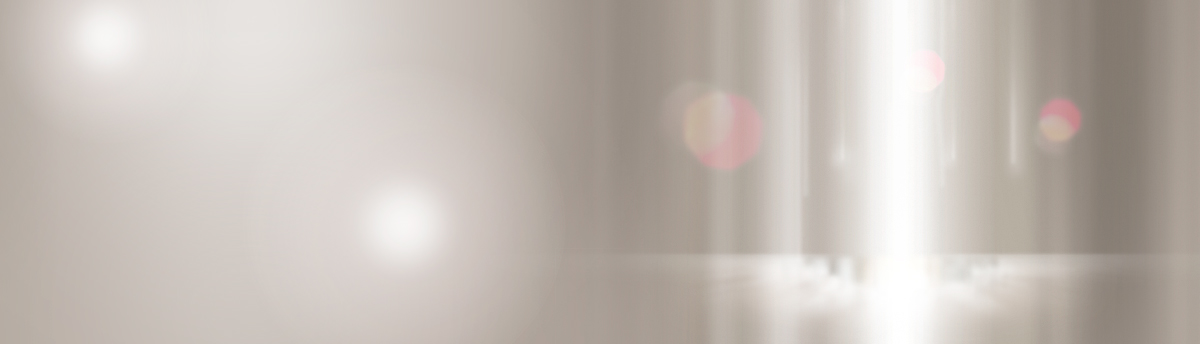
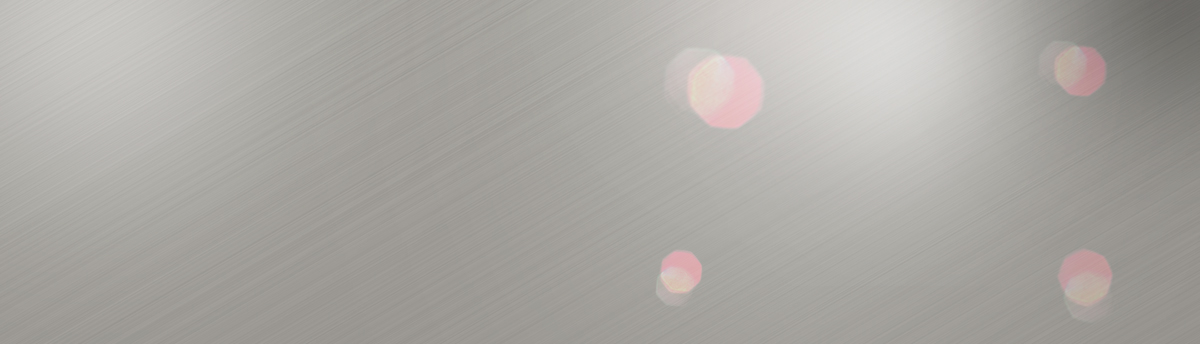
브랜드 배너 수정

diff --git a/_ui/responsive/theme-blue/css/akl-common.css b/_ui/responsive/theme-blue/css/akl-common.css
@@ -72,9 +72,9 @@
 .brand .brand-artisti-banner a { display:table-row;}
 .brand .brand-artisti-banner a p { height:344px; width:50%; display: table-cell; vertical-align:middle; margin:0; padding:55px 0 0; text-align: center;}
 .brand .brand-artisti-banner a p img { height:289px; width:auto}
-.brand .brand-artisti-banner a dl {display: table-cell; height:344px; vertical-align:middle;  }
+.brand .brand-artisti-banner a dl {display: table-cell; height:344px; padding-top: 80px }
 .brand .brand-artisti-banner a dl dt { font-size:36px; font-weight:500; color:#6d5f3c; padding-left:100px;letter-spacing: -2px;}
-.brand .brand-artisti-banner a dl dt span{ font-size:26px; font-weight:400; color:#57575a; display:block;}
+.brand .brand-artisti-banner a dl dt span{ font-size:26px; font-weight:400; color:#57575a; display:block; line-height:100%}
 .brand .brand-artisti-banner a dl dd { font-size: 14px; color:#808184; padding-left:100px; margin-top: 20px}
 .brand .brand-artisti-banner a dl dd span {display:block;}
 
@@ -172,7 +172,7 @@
 .brand .brand-artisti-banner.type02 a dl dd {color:#dbd9da;}
 .brand .brand-artisti-banner.type03 a dl dd {color:#dbdbd9;}
 .brand .brand-artisti-banner.type04 a dl dd {color:#bcbdb8;}
-.brand .brand-artisti-banner.type05 a dl dd {color:#808487;}
+.brand .brand-artisti-banner.type05 a dl dd {color:#bcbdb8;}
 .brand .brand-artisti-banner.type06 a dl dd {color:#828385;}
 .brand .brand-artisti-banner.type07 a dl dd {color:#7f8287;}
 .brand .brand-artisti-banner.type08 a dl dd {color:#828388;}
@@ -185,7 +185,7 @@
 .brand .brand-artisti-banner.type14 a dl dd {color:#dadbdd;}
 .brand .brand-artisti-banner.type15 a dl dd {color:#dfdbdc;}
 .brand .brand-artisti-banner.type16 a dl dd {color:#dcdbd9;}
-.brand .brand-artisti-banner.type17 a dl dd {color:#808388;}
+.brand .brand-artisti-banner.type17 a dl dd {color:#808285;}
 .brand .brand-artisti-banner.type18 a dl dd {color:#ffffff;}
 .brand .brand-artisti-banner.type19 a dl dd {color:#dbdbdb;}
 .brand .brand-artisti-banner.type20 a dl dd {color:#828387;}
@@ -196,19 +196,22 @@
 	.brand .brand-artisti-banner { height:auto; min-height:350px; width:auto; display:block; overflow:hidden; margin:20px 15px !important; }
 	.brand .brand-artisti-banner a { display:block;}
 	.brand .brand-artisti-banner a p { height:auto; width:auto; padding:0; text-align:right;display:block; }
-	.brand .brand-artisti-banner a dl {display:block; height:auto; position:relative;z-index:2 }
+	.brand .brand-artisti-banner a dl {display:block; height:auto;  padding-top:0; position:relative;z-index:2 }
 	.brand .brand-artisti-banner a dl dt { padding:20px 20px 0; font-size:22px; }
 	.brand .brand-artisti-banner a dl dt span{ display:block; font-size:16px;}
 	.brand .brand-artisti-banner a dl dd { padding:0 20px; font-size:12px; margin-top:10px; }
 	.brand .brand-artisti-banner a dl dd span {display:block;}
 	.brand .brand-artisti-banner a dl dd .break-mob {display:block;font-size:12px;}
 
-	.brand .brand-artisti-banner.type01 {background: url(/_ui/responsive/theme-blue/images/akl_brand/artistry/banner/bg_01.jpg) no-repeat 85% top;background-size: cover;}
+	.brand .brand-artisti-banner.type01 {background: url(/_ui/responsive/theme-blue/images/akl_brand/artistry/banner/bg_01.jpg) no-repeat 65% top;background-size: cover;}
+	.brand .brand-artisti-banner.type03 {background: url(/_ui/responsive/theme-blue/images/akl_brand/artistry/banner/bg_03.jpg) no-repeat 50% top; background-size: cover;}
 	.brand .brand-artisti-banner.type04 { background: url(/_ui/responsive/theme-blue/images/akl_brand/artistry/banner/bg_04.jpg) no-repeat 74% top;background-size: cover;}
+	.brand .brand-artisti-banner.type05 { background:url(/_ui/responsive/theme-blue/images/akl_brand/artistry/banner/bg_05.jpg) no-repeat 80% top; background-size:cover }
 	.brand .brand-artisti-banner.type11 {background: url(/_ui/responsive/theme-blue/images/akl_brand/artistry/banner/bg_11.jpg) no-repeat 77% top; background-size:cover}
 	.brand .brand-artisti-banner.type14 {background: url(/_ui/responsive/theme-blue/images/akl_brand/artistry/banner/bg_14.jpg) no-repeat 50% top;background-size: cover;}
 	.brand .brand-artisti-banner.type19 {background: url(/_ui/responsive/theme-blue/images/akl_brand/artistry/banner/bg_19.jpg) no-repeat 65% top;background-size: cover;}
-	.brand .brand-artisti-banner.type20 {background: url(/_ui/responsive/theme-blue/images/akl_brand/artistry/banner/bg_20.jpg) no-repeat 41% top;background-size: cover;}
+	.brand .brand-artisti-banner.type20 {background: url(/_ui/responsive/theme-blue/images/akl_brand/artistry/banner/bg_20.jpg) no-repeat left top;background-size: cover;}
+	.brand .brand-artisti-banner.type21 { background:url(/_ui/responsive/theme-blue/images/akl_brand/artistry/banner/bg_21.jpg) no-repeat 50% top; background-size:cover }
 
 	.brand .brand-artisti-banner a p img {  display:block; position:absolute; bottom:30px; right:20px; width:60%; z-index:1}
 	.brand .brand-artisti-banner.type01 a p img { height:auto; bottom:10px; right:30px; width:42%;}/* 시그니처 셀렉트 */
@@ -233,6 +236,7 @@
 	.brand .brand-artisti-banner.type20 a p img { height:auto; bottom:10px; right:-10px; width:50%;}/* 플로라 시크 */
 	.brand .brand-artisti-banner.type21 a p img { height:auto; bottom:20px; right:25px; width:25%;}/* 아티스트리맨 언노운 */
 
+	.brand .brand-artisti-banner.type01 a dl dd {color:#57575a;}
 	.brand .brand-artisti-banner.type09 a dl dd {color:#eee;}
 }
 

diff --git a/_ui/responsive/theme-blue/css/akl-shop.css b/_ui/responsive/theme-blue/css/akl-shop.css
@@ -547,7 +547,8 @@
 
 .akl .tbl-type2.electronic th {width:20%;}
 .akl .tbl-type2.electronic td {width:80%; background:#fff}
-.akl .amway-competitive .tb-box {-webkit-overflow-scrolling: touch;}
+.akl .amway-competitive .tb-box {-webkit-overflow-scrolling:touch; margin-bottom:40px;}
+.akl .new-amway-competitive .product-description__section .tb-box + .carousel-title { padding-top:0;}
 .akl .table.table-hover {border-bottom:1px solid #e4e4e5;table-layout:fixed}
 
 .akl .carousel-title {font-size:32px;font-family:'Noto Sans KR', sans-serif;font-weight:700;letter-spacing:-2px;color:#002f5f;}

diff --git a/_ui/responsive/html/brand/B20208.html b/_ui/responsive/html/brand/B20208.html
@@ -185,7 +185,7 @@
 									<span>인텐시브</span>
 									INTENSIVE
 								</dt>
-								<dd>전문적인 피부 관리에서 영감을 받아 탄생한 홈더마 스킨케어 라인 </dd>
+								<dd>전문적인 피부 관리에서 영감을 받아 <em class="break-mob">탄생한 홈더마 스킨케어 라인</em> </dd>
 							</dl>
 							<p><img src="/_ui/responsive/theme-blue/images/akl_brand/artistry/banner/product_03.png" alt=""></p>
 						</a>
